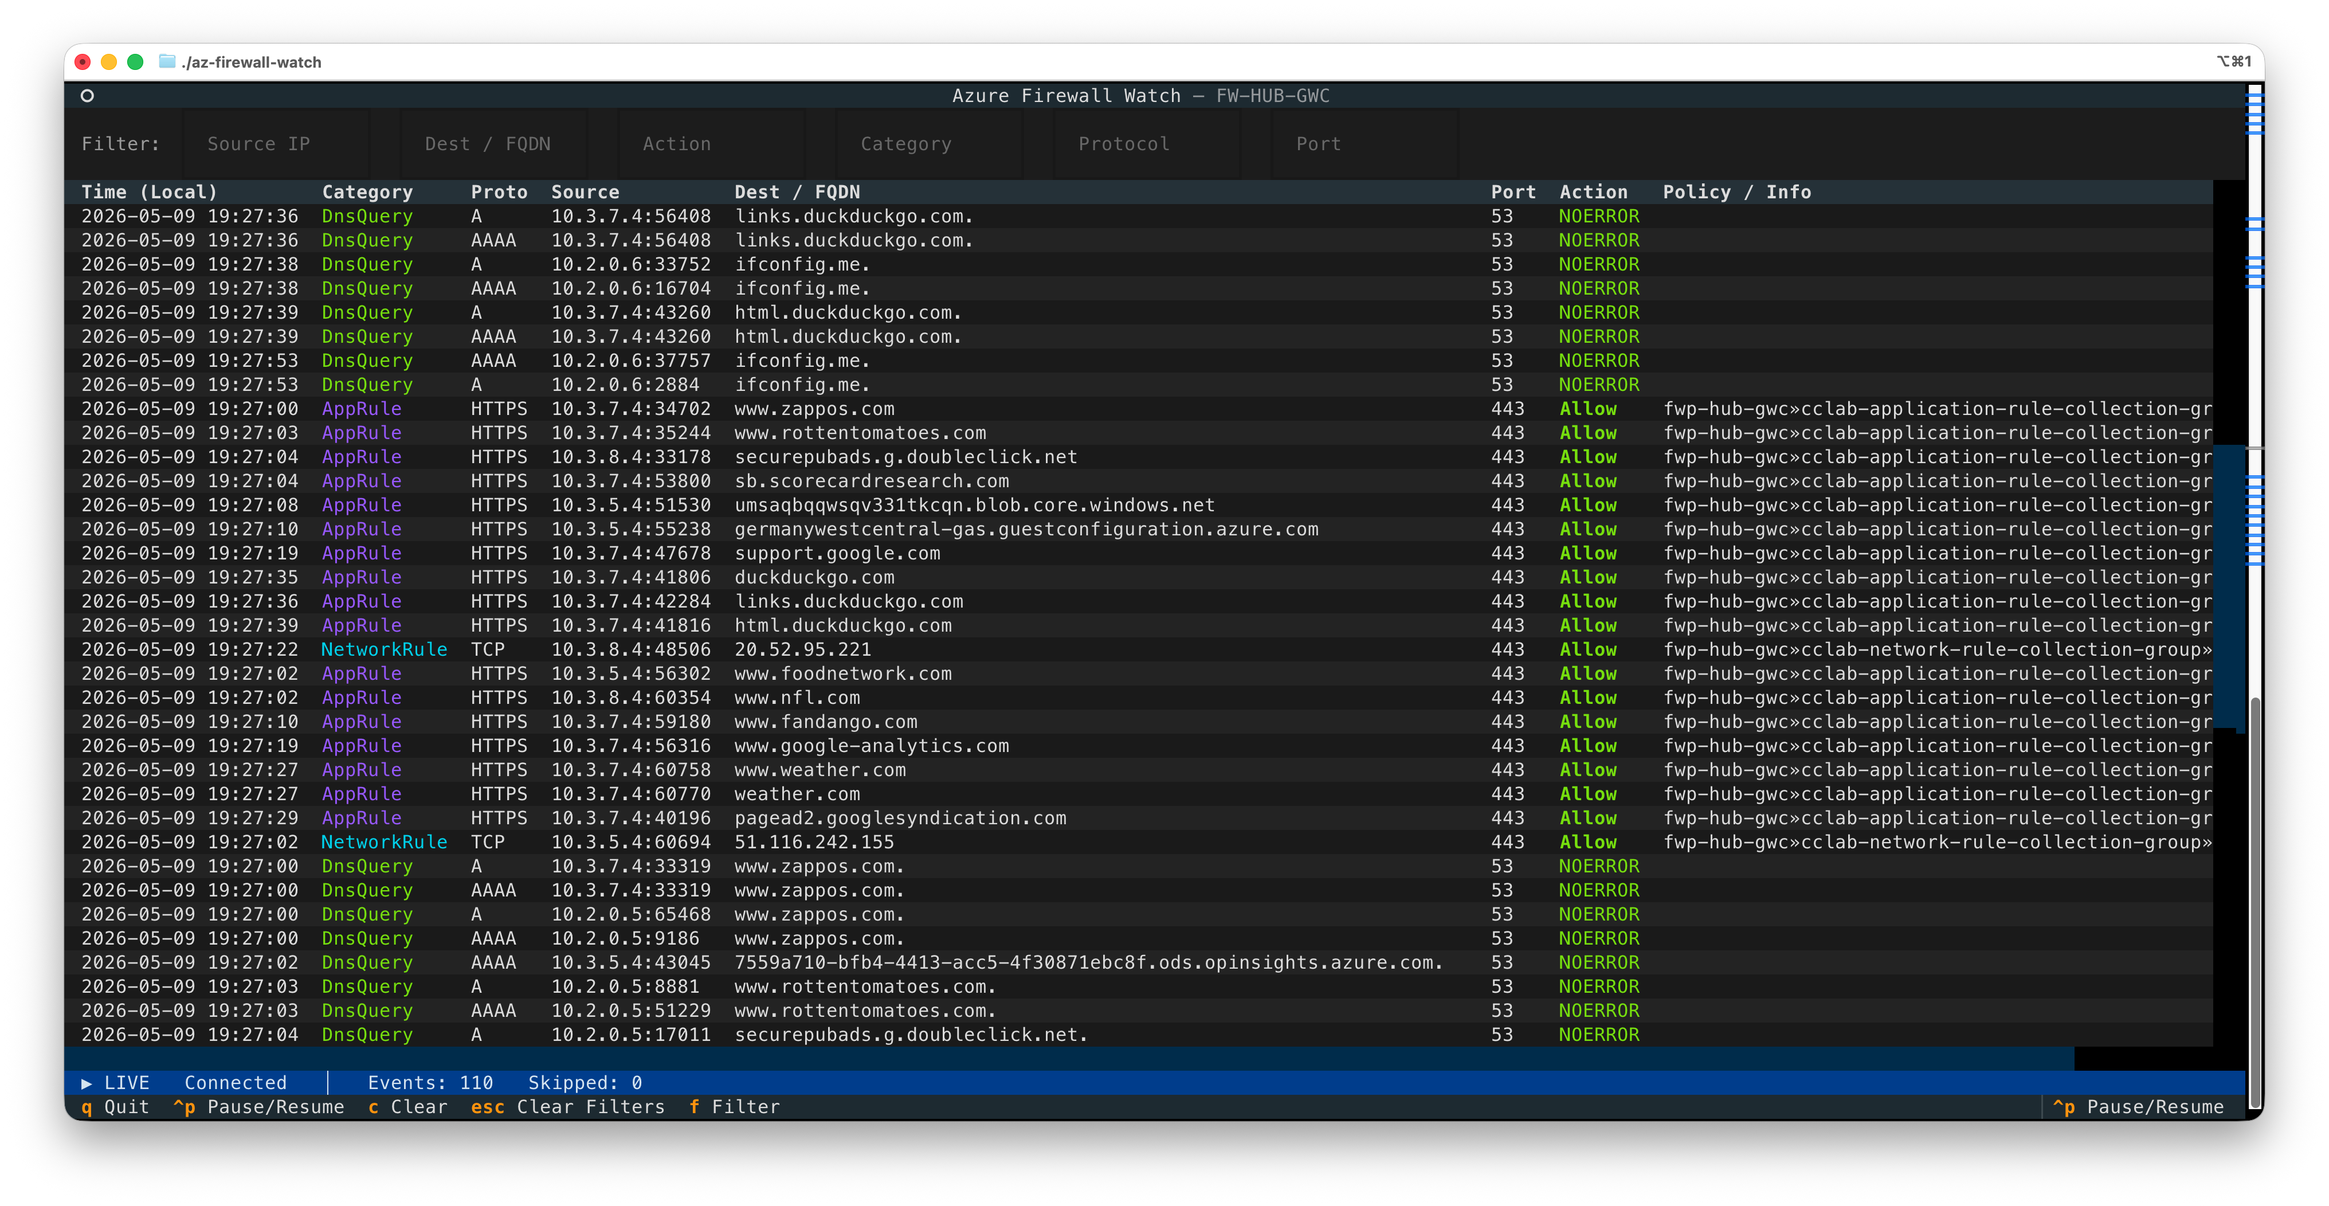
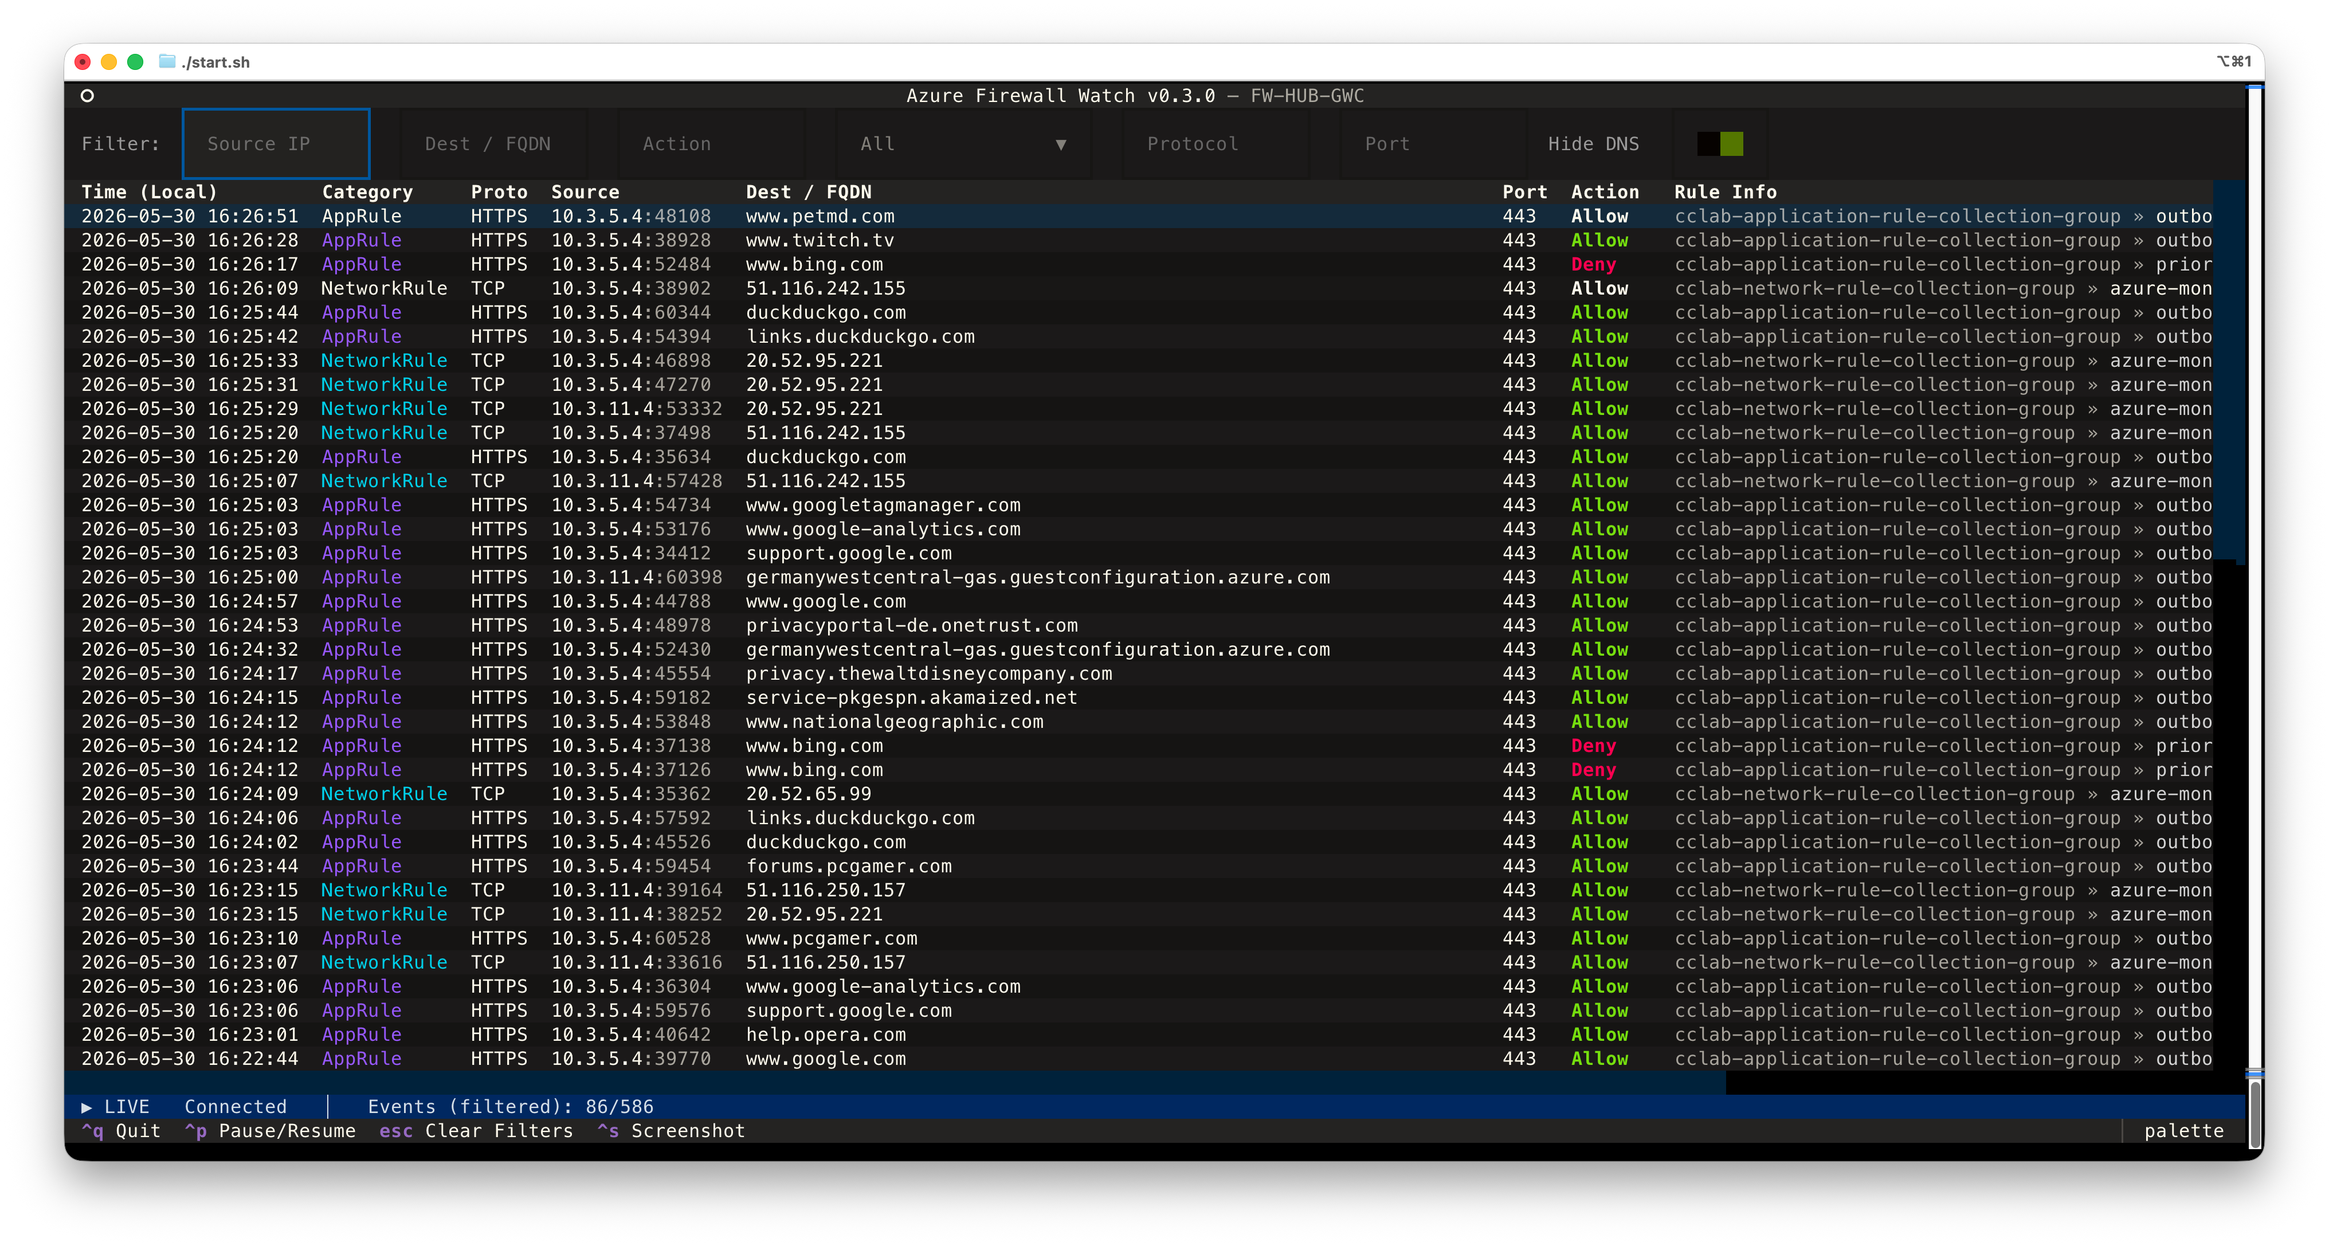
docs: update readme with new wizard, re-structured chapters; update script comments

Changed region(s): [[0.0312, 0.0309, 0.9688, 0.9577]]

diff --git a/README.md b/README.md
@@ -9,8 +9,6 @@ Built by [CloudChristoph](https://github.com/cloudchristoph).
 
 ![Azure Firewall Watch screenshot](https://raw.githubusercontent.com/cloudchristoph/az-firewall-watch/main/docs/screenshot.png)
 
----
-
 ## 🏗 How it works
 
 Azure Firewall Watch reads logs from an **Azure Event Hub** that receives firewall events via **Diagnostic Settings**:
@@ -27,50 +25,19 @@ Azure Firewall
 2. **Event Hub** buffers the events (default retention: 1 day) so az-firewall-watch can consume them live.  
    → [Azure Event Hubs overview](https://learn.microsoft.com/en-us/azure/event-hubs/event-hubs-about)
 
-### 💰 Cost considerations
-
-An Event Hub for firewall logs is typically inexpensive:
-
-| Tier                | ~Rough monthly cost                                                       |
-| ------------------- | ------------------------------------------------------------------------- |
-| **Basic** (1 TU)    | ~$10 + ~$0.028 per million events                                         |
-| **Standard** (1 TU) | ~$22 + ~$0.028 per million events — required for multiple consumer groups |
-
-Firewall log volume depends on traffic intensity — most environments stay comfortably within a single Throughput Unit.  
-→ [Event Hubs pricing](https://azure.microsoft.com/pricing/details/event-hubs/)
-
-> **Tip:** The built-in setup wizard can deploy a new Event Hub and configure diagnostic settings automatically in ~2–3 minutes.
-
----
-
 ## 🚀 Getting started
 
-### Option 1 — Download a prebuilt binary *(easiest, no Python needed)*
+### Option 1 - Download the binary *(recommended)*
 
 Download the binary for your platform from the [latest release](../../releases/latest):
 
-| Platform            | File                             |
-| ------------------- | -------------------------------- |
-| Linux x86_64        | `az-firewall-watch-linux.tar.gz` |
-| macOS Apple Silicon | `az-firewall-watch-macos.tar.gz` |
-| Windows             | `az-firewall-watch.exe`          |
-
-**macOS / Linux:**
-
-```bash
-# 1. Download (example for macOS)
-curl -L -O \
-  https://github.com/cloudchristoph/az-firewall-watch/releases/latest/download/az-firewall-watch-macos.tar.gz
-
-# 2. Extract (preserves execute permission)
-tar -xzf az-firewall-watch-macos.tar.gz
-
-# 3. macOS only: remove Gatekeeper quarantine flag
-xattr -d com.apple.quarantine az-firewall-watch
-
-# 4. Run — the setup wizard launches automatically on first start
-./az-firewall-watch
-```
+<!-- markdownlint-disable MD060 -->
+| Platform            | File                                                                                              |
+| ------------------- | ------------------------------------------------------------------------------------------------- |
+| Windows             | [`az-firewall-watch.exe`](../../releases/latest/download/az-firewall-watch.exe)                   |
+| macOS Apple Silicon | [`az-firewall-watch-macos.tar.gz`](../../releases/latest/download/az-firewall-watch-macos.tar.gz) |
+| Linux x86_64        | [`az-firewall-watch-linux.tar.gz`](../../releases/latest/download/az-firewall-watch-linux.tar.gz) |
+<!-- markdownlint-enable MD060 -->
 
 **Windows:**
 
@@ -80,8 +47,32 @@ Double-click `az-firewall-watch.exe` or run from PowerShell:
 .\az-firewall-watch.exe
 ```
 
-> **Windows SmartScreen** may warn on first launch — click **More info → Run anyway**.  
+> [!NOTE]
+> **Windows SmartScreen** may warn on first launch - click **More info → Run anyway**.  
 > This is expected for unsigned binaries.
+
+**macOS:**
+
+```bash
+# 1. Extract (preserves execute permission)
+tar -xzf az-firewall-watch-macos.tar.gz
+
+# 2. Remove the Gatekeeper quarantine flag (required for unsigned binaries)
+xattr -d com.apple.quarantine az-firewall-watch
+
+# 3. Run — the setup wizard launches automatically on first start
+./az-firewall-watch
+```
+
+**Linux:**
+
+```bash
+# 1. Extract (preserves execute permission)
+tar -xzf az-firewall-watch-linux.tar.gz
+
+# 2. Run — the setup wizard launches automatically on first start
+./az-firewall-watch
+```
 
 ### Option 2 — Run from source *(Python 3.10+)*
 
@@ -100,55 +91,54 @@ The scripts create a virtual environment, install dependencies, and launch the a
 
 ### 🧙 First-run setup wizard
 
-On first launch the wizard asks how you want to connect and then writes `.env` automatically. Four options are available:
+The setup wizard runs automatically the first time you launch the app (or whenever `.env` is missing). It's a full TUI — navigate with arrow keys, `Enter` to confirm, `Escape` or `Q` to go back.
+
+You have two main options for connecting your firewall logs Event Hub:
+
+#### Existing Event Hub
 
 <!-- markdownlint-disable MD060 -->
-| Option                | Description                                                                            | Azure CLI required |
-| --------------------- | -------------------------------------------------------------------------------------- | ------------------ |
-| **1 — Pick existing** | Choose an existing Event Hub from your subscriptions                                   | ✅                  |
-| **2 — Deploy new**    | Discover your firewall and deploy a new Event Hub incl. diagnostic settings (~2–3 min) | ✅                  |
-| **3 — Paste string**  | Paste a connection string directly — no Azure CLI needed                               | —                  |
-| **4 — Entra ID**      | Enter namespace + hub name and authenticate passwordlessly via `DefaultAzureCredential` | —                 |
+| Option                               | What it does                                                                                          | Azure CLI required |
+| ------------------------------------ | ----------------------------------------------------------------------------------------------------- | ------------------ |
+| **Discover Event Hub automatically** | Lists your subscriptions, namespaces and hubs so you can pick one from a menu                         | ✅                  |
+| **Enter existing Event Hub data**    | Type namespace + hub name manually (handy when your identity can read the hub but not list resources) | —                  |
+| **Paste SAS connection string**      | Paste a full `Endpoint=sb://…;EntityPath=…` string — written verbatim to `.env`                       | —                  |
 <!-- markdownlint-enable MD060 -->
+
+#### New Event Hub
+
+> [!NOTE]
+> If your environment uses Azure Policy to enforce specific naming conventions, settings, or resource tags (as it should 😉), the automatic deployment may fail since it creates a new Event Hub with default settings within the same subscription as the firewall.
+>
+> In that case, you should create the Event Hub manually or via IaC according to your policies and then use the "Discover" or "Enter existing" options to connect it to the app.
+
+<!-- markdownlint-disable MD060 -->
+| Option                                            | What it does                                                                                                                                                             | Azure CLI required |
+| ------------------------------------------------- | ------------------------------------------------------------------------------------------------------------------------------------------------------------------------ | ------------------ |
+| **Deploy new Event Hub and Diagnostics settings** | Discovers your Azure Firewall, creates a Basic-tier Event Hub namespace + `firewall-logs` hub, and wires up Diagnostic Settings to forward the structured log categories | ✅                  |
+
+> [!NOTE]
+> The deployment will require permissions to create an Event Hub namespace and hub, and to update Diagnostic Settings on the firewall. Also keep in mind that it can take *up to 10-15 minutes at the first launch* for the Event Hub to be fully provisioned and start receiving logs from the firewall.
+
+### 🔑 Authentication methods
+
+After picking a hub (Discover, Enter existing, or Deploy new), a follow-up screen asks **how** to authenticate:
+
+- **Entra ID** *(recommended)* — uses passwordless auth via logged in Azure CLI login, managed identity, environment credentials, etc. Nothing secret is written to `.env`. Requires the **Azure Event Hubs Data Receiver** role on the namespace or hub; the wizard verifies your assignment up-front.
+- **SAS auth rule** — looks for a reusable Listen-only authorization rule on the hub; if none exists you'll be asked to confirm the creation of a new one before the connection string is written to `.env`.
+
+> The *Paste connection string* path skips the auth-method screen since SAS is already implied.
+
+> [!CAUTION]
+> SAS keys are powerful secrets that grant access to your Event Hub. If you choose the SAS auth method, make sure to protect the generated connection string and `.env` file, and rotate keys regularly.
+>
+> Never commit your `.env` file to source control or share it with unauthorized parties.
 
 Run with `--reconfigure` to redo setup at any time:
 
 ```bash
 ./az-firewall-watch --reconfigure
 ```
-
----
-
-## ⌨ Key bindings
-
-| Key                 | Action                                |
-| ------------------- | ------------------------------------- |
-| `q` or `Ctrl` + `q` | Quit                                  |
-| `Ctrl` + `p`        | Pause / resume streaming              |
-| `Enter`             | Open detail view for the selected row |
-| `c`                 | Clear all rows from the table         |
-| `Escape`            | Clear all filter inputs               |
-| `f`                 | Jump focus to the filters             |
-| `Tab`               | Move between filter inputs            |
-
----
-
-## 🔍 Filters
-
-All filters are **case-insensitive substring matches** applied instantly as you type.
-
-| Filter      | Matches against                                                           |
-| ----------- | ------------------------------------------------------------------------- |
-| Source IP   | `sourceip` field                                                          |
-| Dest / FQDN | `targetip` / FQDN field                                                   |
-| Action      | `allow`, `deny`, `dnat`, `alert`                                          |
-| Category    | `NetworkRule`, `AppRule`, `DnsQuery`, `NATRule`, `IDPS`, `ThreatIntel`, … |
-| Protocol    | `TCP`, `UDP`, `HTTPS`, `HTTP`, …                                          |
-| Port        | Destination port (e.g. `443`, `80`, `53`)                                 |
-
-Press `Escape` to clear all filters at once, or `f` to jump directly into the filter bar.
-
----
 
 ## ⚙ Configuration
 
@@ -188,23 +178,73 @@ EVENT_HUB_START_POSITION=latest
 > When both `EVENT_HUB_NAMESPACE`/`EVENT_HUB_NAME` and `EVENT_HUB_CONNECTION_STRING` are set, Entra ID is preferred.
 > **Tip:** If you deploy the Event Hub manually, configure [Diagnostic Settings](https://learn.microsoft.com/en-us/azure/azure-monitor/platform/diagnostic-settings) on your Azure Firewall to forward logs to the `firewall-logs` Event Hub.
 
+## ⌨ Key bindings
+
+| Key          | Action                                |
+| ------------ | ------------------------------------- |
+| `Ctrl` + `q` | Quit                                  |
+| `Ctrl` + `p` | Pause / resume streaming              |
+| `Ctrl` + `s` | Save a screenshot of the current view |
+| `Escape`     | Clear all filter inputs               |
+| `f`          | Jump focus to the filters             |
+| `Tab`        | Move between filter inputs            |
+| `Enter`      | Open detail view for the selected row |
+| `c`          | Clear all rows from the table         |
+
+The status bar at the bottom shows the connection state, total events received,
+the currently visible count when a filter is active, and how many records were
+skipped (e.g. unknown categories).
+
+## 🔍 Filters
+
+All filters are **case-insensitive substring matches** applied instantly as you type.
+
+<!-- markdownlint-disable MD060 -->
+| Filter      | Matches against                                                                        |
+| ----------- | -------------------------------------------------------------------------------------- |
+| Source IP   | `sourceip` field                                                                       |
+| Dest / FQDN | `targetip` / FQDN field                                                                |
+| Action      | `allow`, `deny`, `dnat`, `alert`, `resolvefail`, DNS RCODEs (`noerror`, `nxdomain`, …) |
+| Category    | `NetworkRule`, `AppRule`, `DnsQuery`, `NATRule`, `IDPS`, `ThreatIntel`                 |
+| Protocol    | `TCP`, `UDP`, `HTTPS`, `HTTP`, DNS query types (`A`, `AAAA`, `MX`, …)                  |
+| Port        | Destination port (e.g. `443`, `80`, `53`)                                              |
+<!-- markdownlint-enable MD060 -->
+
+### Hide DNS toggle
+
+DNS proxy traffic can dominate the log volume on busy firewalls. A **Hide DNS**
+switch sits at the end of the filter bar and is **on by default**, so `DnsQuery`
+rows are filtered out until you explicitly want to see them.
+
+The toggle is smart:
+
+- Flipping it **off** instantly shows all DNS rows.
+- Picking **DnsQuery** in the Category dropdown automatically flips it off — so
+  you never end up with an empty table after asking to see DNS entries.
+- Pressing `Escape` to clear all filters resets the toggle back to **on**.
+
+Press `Escape` to clear all filters at once, or `f` to jump directly into the filter bar.
+
 ---
 
 ## 📋 Supported log categories
 
-Both legacy and structured log formats are parsed:
+Both the **legacy** (single-message) and the **structured** (typed JSON) log
+formats produced by Azure Firewall are parsed. Legacy `AzureFirewallDnsProxy`
+entries are normalised into the `DnsQuery` category so you only deal with one
+display name regardless of which diagnostic mode is enabled.
 
-| Category shown | Raw Azure category                                     |
-| -------------- | ------------------------------------------------------ |
-| NetworkRule    | `AZFWNetworkRule` / `AzureFirewallNetworkRule`         |
-| AppRule        | `AZFWApplicationRule` / `AzureFirewallApplicationRule` |
-| NATRule        | `AZFWNatRule` / `AzureFirewallNatRuleLog`              |
-| DnsQuery       | `AZFWDnsQuery`                                         |
-| DnsProxy       | `AzureFirewallDnsProxy`                                |
-| IDPS           | `AZFWIdpsSignature`                                    |
-| ThreatIntel    | `AZFWThreatIntel`                                      |
+| Category shown | Azure category (structured / legacy)                                                                                   |
+| -------------- | ---------------------------------------------------------------------------------------------------------------------- |
+| NetworkRule    | `AZFWNetworkRule` / `AzureFirewallNetworkRule`                                                                         |
+| AppRule        | `AZFWApplicationRule` / `AzureFirewallApplicationRule` / `AZFWFqdnResolveFailure` (rendered with action `ResolveFail`) |
+| NATRule        | `AZFWNatRule` / `AzureFirewallNatRuleLog`                                                                              |
+| DnsQuery       | `AZFWDnsQuery` / `AzureFirewallDnsProxy`                                                                               |
+| IDPS           | `AZFWIdpsSignature`                                                                                                    |
+| ThreatIntel    | `AZFWThreatIntel`                                                                                                      |
 
----
+Unknown or non-firewall categories are counted in the status bar as *skipped*
+rather than displayed.
 
 ## 🔨 Building locally
 
@@ -224,7 +264,19 @@ pyinstaller \
 # Binary is at dist/az-firewall-watch  (or dist/az-firewall-watch.exe on Windows)
 ```
 
----
+### 💰 Cost considerations
+
+An Event Hub for firewall logs is typically inexpensive:
+
+| Tier                | ~Rough monthly cost                                                       |
+| ------------------- | ------------------------------------------------------------------------- |
+| **Basic** (1 TU)    | ~$10 + ~$0.028 per million events                                         |
+| **Standard** (1 TU) | ~$22 + ~$0.028 per million events — required for multiple consumer groups |
+
+Firewall log volume depends on traffic intensity — most environments stay comfortably within a single Throughput Unit.  
+→ [Event Hubs pricing](https://azure.microsoft.com/pricing/details/event-hubs/)
+
+> **Tip:** The built-in setup wizard can deploy a new Event Hub and configure diagnostic settings automatically in ~2–3 minutes.
 
 ## 📄 License
 
